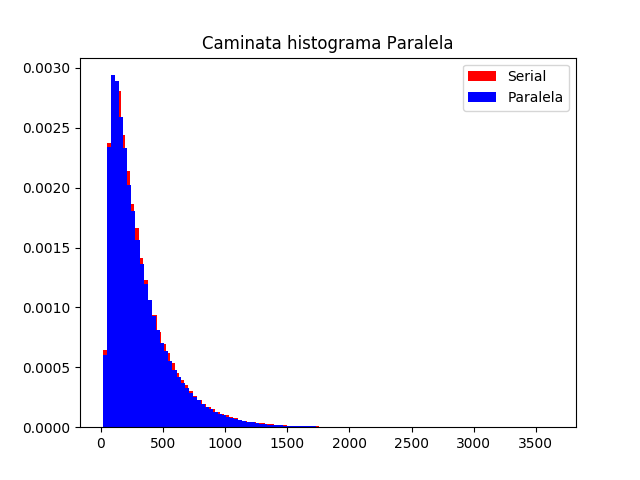
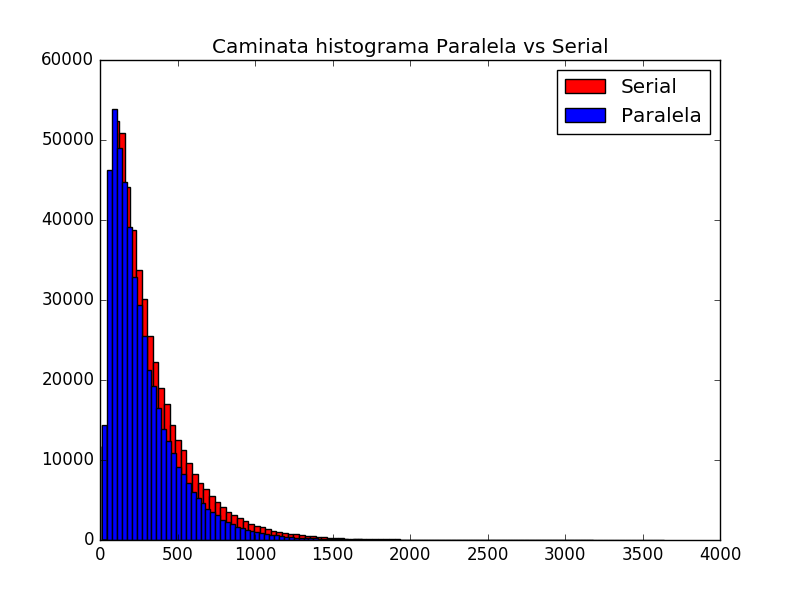
corrido

diff --git a/grafica.py b/grafica.py
@@ -47,9 +47,9 @@ plt.close()
 
 datosWalk=np.genfromtxt('datosWalk.txt')
 datosWalkomp=np.genfromtxt('datosWalkomp.txt')
-plt.hist(datosWalk,bins=100,density=True,label='Serial',color='red')
+plt.hist(datosWalk,bins=100,label='Serial',color='red')
 plt.title('Caminata histograma')
-plt.hist(datosWalkomp,bins=100,density=True,label='Paralela',color='blue')
+plt.hist(datosWalkomp,bins=100,label='Paralela',color='blue')
 plt.title('Caminata histograma Paralela vs Serial')
 plt.legend()
 plt.savefig('graficaWalk.png')
